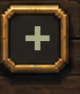
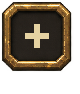
fix assets background:

diff --git a/Docs/UIThemes/TackleApparatusConcept/BuildUpgradeRevision/export_runtime_assets.py b/Docs/UIThemes/TackleApparatusConcept/BuildUpgradeRevision/export_runtime_assets.py
@@ -1,5 +1,5 @@
 """Separate approved decorative artwork from all live species, labels and interactions."""
-import json, copy, hashlib
+import json, copy, hashlib, struct
 from pathlib import Path
 
 folder=Path(__file__).resolve().parent
@@ -48,15 +48,30 @@ scene('build-tray',(550,562,1135,269),layers)
 
 # The approved three-card view retains its original wood and rope pixels. Erase data underneath
 # the independent masters, rather than turning the concept into a printed game-state background.
-three=[tray]+[c for c in source[1]['commands'] if c['id'].startswith('wood-inactive-gap-') or c['id']=='wood-no-insertion-caret']
+three=[tray]
 for x in [697,1001,1305]:
     three.append(image('clear-card-'+str(x),kit/'Exports/Placement/insertion-rail.png',95,67,430,100,x,601,221,190))
+# Use one continuous wood surface beneath the controls instead of isolated background patches.
+# Keep the original rope above this band and the complete perimeter outside it.
+three.append(image('continuous-control-backing',kit/'Exports/Placement/insertion-rail.png',95,67,430,100,588,629,1053,169))
 scene('build-tray-three',(550,562,1135,269),three)
-scene('build-gap-idle',(0,0,80,94),[image('idle-socket',reference,613,659,80,94,0,0,80,94)])
-scene('build-gap-selected',(0,0,80,94),[image('selected-socket',reference,1542,659,80,94,0,0,80,94)])
-scene('build-selection-caret',(0,0,80,35),[image('selected-arrow',reference,1542,629,80,35,0,0,80,35)])
+
+def transparent_asset(ident,relative,x,y,w,h):
+    path=kit/'Exports'/relative
+    sw,sh=struct.unpack('>II',path.read_bytes()[16:24])
+    return image(ident,path,0,0,sw,sh,x,y,w,h)
+
+# Page 08 sockets and the common arrow have real alpha. Never crop controls from a screen.
+# Preserve the existing 80x94 native hit target and the approved visual center.
+for state in ['idle','selected']:
+    scene('build-gap-'+state,(0,0,80,94),[
+        transparent_asset(state+'-socket','Placement/insertion-socket-'+state+'.png',0,0,74,73),
+        transparent_asset('plus','Placement/insertion-plus.png',25,24,24,24)])
+scene('build-selection-caret',(0,0,80,35),[
+    transparent_asset('selected-arrow','Common/caret-down.png',22,8,30,20)])
 
 blank=[image('page-04-original-card',reference,697,601,221,190,697,601,221,190)]
+blank[0]['mask']=[0,12,12,0,207,0,221,13,221,177,208,190,11,190,0,178]
 blank += [c for c in source[1]['commands'] if c['id'] in ['rail-sardine-portrait-paper','rail-sardine-name-well','rail-sardine-footer-well']]
 scene('build-rail-card',(697,601,221,190),blank)
 

diff --git a/Assets/Editor/RigBuildingArtChecks.cs b/Assets/Editor/RigBuildingArtChecks.cs
@@ -28,6 +28,8 @@ public static class RigBuildingArtChecks
             Check(importer.filterMode==FilterMode.Point&&!importer.mipmapEnabled&&!importer.isReadable&&importer.textureCompression==TextureImporterCompression.Uncompressed&&importer.npotScale==TextureImporterNPOTScale.None,"Build sprite settings changed: "+path);
         }
         var prefab=AssetDatabase.LoadAssetAtPath<GameObject>(RigBuildingSetup.PrefabPath);
+        foreach(var name in new[]{"build-gap-idle","build-gap-selected","build-selection-caret","build-rail-card"})
+            CheckTransparentSilhouette(RigBuildingSetup.ArtPath+name+".png");
         Check(prefab.GetComponentsInChildren<UnityEngine.UI.Image>(true).Count(i=>i.name=="build-effect")==1,"Creature details must have one frame.");
         foreach(var text in prefab.GetComponentsInChildren<TMP_Text>(true))
             Check(!text.text.Contains("NEW SPECIES")&&!text.text.Contains("DUPLICATE")&&!text.text.Contains("CATCH")&&!text.text.Contains("BAIT"),"Obsolete Build wording: "+text.text);
@@ -36,6 +38,22 @@ public static class RigBuildingArtChecks
         Check(RigAbilityText.Describe(ability,3,false)=="Successful strikes gain +0.6x per other contiguous Schooling creature.","Level 3 still displays the base effect.");
         Check(RigAbilityText.Describe(new RigAbilitySpec("","",null),1)=="No active ability.","An unassigned creature gained a fabricated effect.");
         return checks;
+    }
+
+    /// <summary>Rejects opaque screen crops without making shipped textures CPU-readable.</summary>
+    private static void CheckTransparentSilhouette(string path)
+    {
+        var texture=new Texture2D(2,2,TextureFormat.RGBA32,false);
+        try
+        {
+            Check(texture.LoadImage(File.ReadAllBytes(path)),"Cannot inspect sprite alpha: "+path);
+            var pixels=texture.GetPixels32();int width=texture.width,height=texture.height;
+            Check(pixels[0].a==0&&pixels[width-1].a==0&&pixels[(height-1)*width].a==0&&pixels[pixels.Length-1].a==0,
+                "Sprite corners retain a cropped background: "+path);
+            Check(pixels.Count(p=>p.a==0)>pixels.Length/200&&pixels.Any(p=>p.a>0),
+                "Sprite must retain both visible artwork and transparent space: "+path);
+        }
+        finally { UnityEngine.Object.DestroyImmediate(texture); }
     }
 
     /// <summary>Starts a fresh runtime-only fixture; source creature definitions and persistent saves remain untouched.</summary>

diff --git a/Docs/Validation/TackleBuildArt/README.md b/Docs/Validation/TackleBuildArt/README.md
@@ -13,7 +13,9 @@ The saved comparison scene uses the approved Penpot composition from pages 11/12
 
 ## Verification
 
-Final results: 63 Build artwork/binding assertions, 76 rig rules, 64 Landing rules, 71 slot rules, 155 Discover-art checks, 96 Landing-art checks, 33 new artwork/live-flow checks and 100 full-loop checks. Unity metadata validation found zero errors or warnings. Counts are recorded in the adjacent JSON results and the full-loop validation directory.
+Initial integration results: 63 Build artwork/binding assertions, 76 rig rules, 64 Landing rules, 71 slot rules, 155 Discover-art checks, 96 Landing-art checks, 33 new artwork/live-flow checks and 100 full-loop checks. Unity metadata validation found zero errors or warnings. Counts are recorded in the adjacent JSON results and the full-loop validation directory.
+
+The insertion-transparency correction replaces the opaque screen crops with the approved page 08 socket/plus exports and common selection arrow, preserves their dimensions and sprite GUIDs, clears the wood patches beneath the controls and masks the hanging card's outside corners. The primary/upgrade button artwork already has alpha. Updated validation passes **75 asset assertions** (including alpha/corner checks on both insertion states, the arrow and card) and **33 live-flow assertions**. Updated native captures show the corrected controls. `TransparencyVerification.json` records the additional checks; gameplay and hit areas are unchanged.
 
 `RigBuildingArtChecks.ValidateAssets()` checks independent source bytes/import settings, one-frame composition, native bindings, resulting-level text and the unassigned-content boundary. `RigBuildingChecks.ValidateRules()` checks acquisition, upgrades, transactional previews, positional effects, scoring, value, stale commands and overflow.
 

diff --git a/Docs/UIThemes/TackleApparatusConcept/BuildUpgradeRevision/Refinement/RuntimeAssets/README.md b/Docs/UIThemes/TackleApparatusConcept/BuildUpgradeRevision/Refinement/RuntimeAssets/README.md
@@ -4,6 +4,8 @@ These are independent decorative exports for the 16 November 2026 Unity integrat
 
 `build-tray-three` retains the original three-card furniture and clears the printed creature fields/control locations. Independent native masters and controls cover those cleared locations. The general `build-tray` uses the same perimeter and approved clean wood for uncapped scrolling rigs, with separate rope and clip elements. The card master contains no name, creature, level, sale value or effect.
 
+Insertion controls use the transparent approved AssetLibrary exports from Penpot page **08 - Rig Placement UI Assets**: `Placement/insertion-socket-idle.png`, `Placement/insertion-socket-selected.png` and `Placement/insertion-plus.png`, with `Common/caret-down.png` for the selection arrow. The exporter composites these on clear canvases at the existing runtime dimensions; it never crops controls from the composed screen. The three-card tray has a continuous wood surface behind the controls, and the hanging card's outer corners are masked to its silhouette. Existing Unity sprite GUIDs, hit areas and layout remain preserved.
+
 From the repository root:
 
 1. Run `python Docs/UIThemes/TackleApparatusConcept/BuildUpgradeRevision/export_runtime_assets.py` to create the extraction commands.
